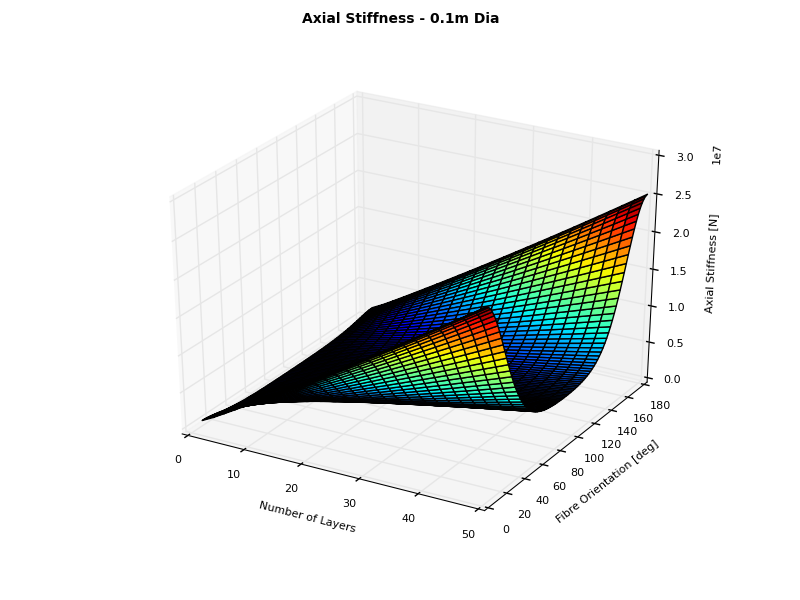
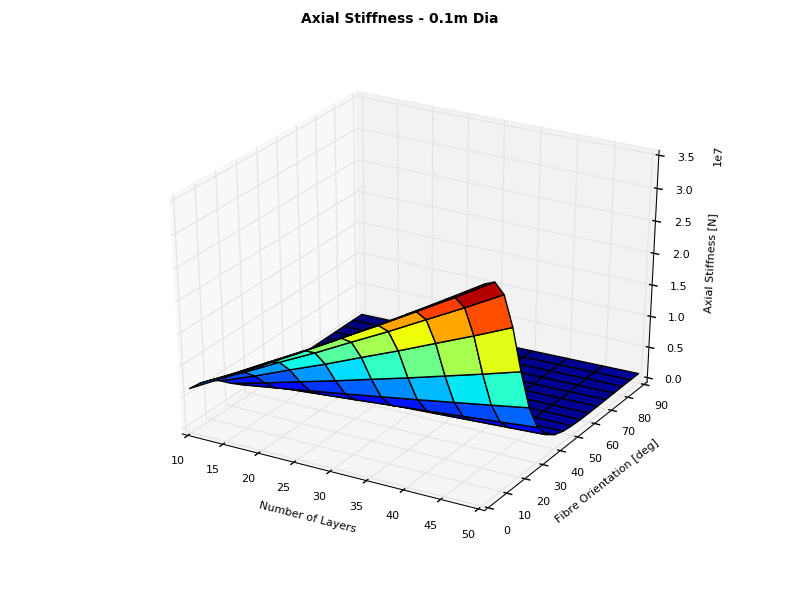
new inputs

diff --git a/composite-pipe/main.py b/composite-pipe/main.py
@@ -22,14 +22,15 @@ from post_pro import post_pro
 def main():
     """ Run program.
     """
-    
+
     # Extract input variables from data.py
     material, dia_is, ttl_lyrss, omegas, h = extract_inputs()
 
     # Run analyses
     analyses = run_analysis(material, dia_is, ttl_lyrss, omegas, h)
-    
-    # Post process results
-    post_pro(dia_is, ttl_lyrss, omegas, analyses) 
 
-main()
+    # Post process results
+    post_pro(dia_is, ttl_lyrss, omegas, analyses)
+
+if __name__ == "__main__":
+    main()

diff --git a/composite-pipe/data.py b/composite-pipe/data.py
@@ -27,14 +27,14 @@ G_23 = 2.54e8
 h = (10e-3)/44
 
 # Inner Diameter Range
-dia_i_min = 0.06
-dia_i_max = 0.06
+dia_i_min = 0.1
+dia_i_max = 0.1
 dia_i_step = 0.1
 
 # Number of Layers Range
-ttl_lyrss_min = 40
-ttl_lyrss_max = 40
-ttl_lyrss_step = 2
+ttl_lyrss_min = 10
+ttl_lyrss_max = 50
+ttl_lyrss_step = 5
 
 # Fibre Orientation Range
 omega_min = 0
